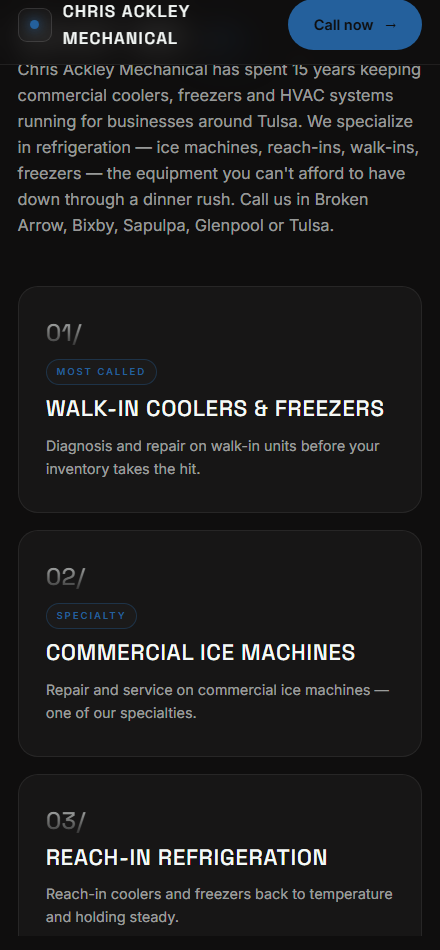
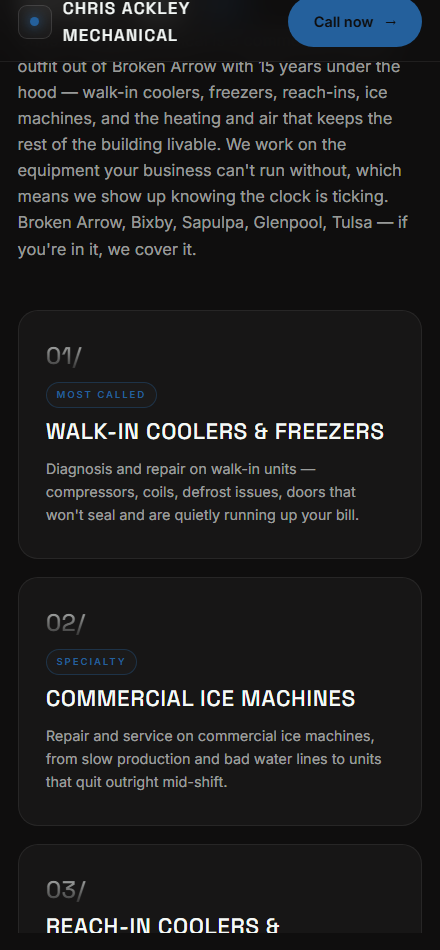
Publish demo: chris-ackley-mechanical

diff --git a/chris-ackley-mechanical/index.html b/chris-ackley-mechanical/index.html
@@ -5,7 +5,7 @@
 <meta charset="UTF-8">
 <meta name="viewport" content="width=device-width, initial-scale=1.0">
 <title>Chris Ackley Mechanical — Broken Arrow</title>
-<meta name="description" content="Chris Ackley Mechanical — Commercial refrigeration and HVAC service across Tulsa and the surrounding towns. Broken Arrow. Call (918) 370-6348.">
+<meta name="description" content="Chris Ackley Mechanical — Commercial refrigeration and HVAC service across Tulsa and Broken Arrow. Broken Arrow. Call (918) 370-6348.">
 <link rel="preconnect" href="https://fonts.googleapis.com">
 <link rel="preconnect" href="https://fonts.gstatic.com" crossorigin>
 <link href="https://fonts.googleapis.com/css2?family=Fraunces:opsz,wght@9..144,500;9..144,600&family=Playfair+Display:wght@600;700&family=Space+Grotesk:wght@500;600;700&family=Inter:wght@300;400;500;600&display=swap" rel="stylesheet">
@@ -316,7 +316,7 @@ footer.site a:hover{text-decoration:underline}
 </nav>
 
 <header class="hero" id="top">
-  <img class="hero-bg" src="photos/p3.jpg" alt="Chris Ackley Mechanical" style="object-position:50% 83%">
+  <img class="hero-bg" src="photos/p6.jpg" alt="Chris Ackley Mechanical" style="object-position:16% 83%">
   <div class="scrim" aria-hidden="true"></div>
   <div class="glow-field" aria-hidden="true">
     <div class="glow g1" data-depth="0.14"></div>
@@ -331,7 +331,7 @@ footer.site a:hover{text-decoration:underline}
   <div class="hero-inner wrap">
     <span class="pill-badge" data-reveal>Commercial Refrigeration & Hvac</span>
     <h1><span class="w" style="animation-delay:0.12s">Cold</span> <span class="w" style="animation-delay:0.24s">stays</span> <span class="w" style="animation-delay:0.36s">cold.</span></h1>
-    <p class="lede" data-reveal>Commercial refrigeration and HVAC service across Tulsa and the surrounding towns.</p>
+    <p class="lede" data-reveal>Commercial refrigeration and HVAC service across Tulsa and Broken Arrow.</p>
     <div class="rating" data-reveal><span class="stars" aria-label="Five stars">&#9733;&#9733;&#9733;&#9733;&#9733;</span> Loved by locals</div>
     <div class="trust stagger" data-stagger>TRUST_CHIPS</div>
     <div class="cta-row" data-reveal>
@@ -342,7 +342,7 @@ footer.site a:hover{text-decoration:underline}
   <div class="scroll-cue" aria-hidden="true">Scroll on down<span class="pulse"></span></div>
 </header>
 
-<div class="marquee" aria-hidden="true"><div class="track"><span>15 YEARS COMMERCIAL HVACR</span><b>&#9679;</b><span>WALK-INS & REACH-INS</span><b>&#9679;</b><span>ICE MACHINE SPECIALIST</span><b>&#9679;</b><span>BROKEN ARROW TO TULSA</span><b>&#9679;</b><span>15 YEARS COMMERCIAL HVACR</span><b>&#9679;</b><span>WALK-INS & REACH-INS</span><b>&#9679;</b><span>ICE MACHINE SPECIALIST</span><b>&#9679;</b><span>BROKEN ARROW TO TULSA</span><b>&#9679;</b></div></div>
+<div class="marquee" aria-hidden="true"><div class="track"><span>15 YEARS EXPERIENCE</span><b>&#9679;</b><span>COMMERCIAL HVACR</span><b>&#9679;</b><span>ICE MACHINE SPECIALIST</span><b>&#9679;</b><span>TULSA & BROKEN ARROW</span><b>&#9679;</b><span>15 YEARS EXPERIENCE</span><b>&#9679;</b><span>COMMERCIAL HVACR</span><b>&#9679;</b><span>ICE MACHINE SPECIALIST</span><b>&#9679;</b><span>TULSA & BROKEN ARROW</span><b>&#9679;</b></div></div>
 
 <div class="stats"><div class="row wrap stagger" data-stagger><div><div class="n">Local</div><div class="l">owned &amp; operated</div></div><div><div class="n">5&#9733;</div><div class="l">service you can count on</div></div><div><div class="n">Broken Arrow</div><div class="l">&amp; surrounding area</div></div><div><div class="n">Fast</div><div class="l">friendly &amp; on-time</div></div></div></div>
 
@@ -351,12 +351,12 @@ footer.site a:hover{text-decoration:underline}
     <div data-reveal>
       <span class="eyebrow">Commercial Refrigeration & Hvac</span>
       <h2>What we <span class="serif-it glow-word">do.</span></h2>
-      <p class="lead">Chris Ackley Mechanical is a commercial HVACR outfit out of Broken Arrow with 15 years under the hood — walk-in coolers, freezers, reach-ins, ice machines, and the heating and air that keeps the rest of the building livable. We work on the equipment your business can't run without, which means we show up knowing the clock is ticking. Broken Arrow, Bixby, Sapulpa, Glenpool, Tulsa — if you're in it, we cover it.</p>
+      <p class="lead">Chris Ackley Mechanical has spent 15 years keeping commercial coolers, freezers and ice machines running for businesses around Tulsa. Walk-ins, reach-ins, ice machines, heating and air — if it holds a temperature and your business depends on it, that's the work. Broken Arrow, Bixby, Sapulpa, Glenpool and Tulsa.</p>
     </div>
-    <div class="grid stagger" data-stagger><div class="card"><span class="num">01/</span><span class="pill">most called</span><h3>Walk-In Coolers & Freezers</h3><p>Diagnosis and repair on walk-in units — compressors, coils, defrost issues, doors that won't seal and are quietly running up your bill.</p></div>
-<div class="card"><span class="num">02/</span><span class="pill">specialty</span><h3>Commercial Ice Machines</h3><p>Repair and service on commercial ice machines, from slow production and bad water lines to units that quit outright mid-shift.</p></div>
-<div class="card"><span class="num">03/</span><h3>Reach-In Coolers & Freezers</h3><p>Reach-in units for restaurants, bars, and shops — kept holding the temp your health inspector wants to see.</p></div>
-<div class="card"><span class="num">04/</span><span class="pill">year-round</span><h3>Commercial Heating & Air</h3><p>Rooftop units and commercial HVAC service so the dining room, shop floor, or office stays comfortable year-round.</p></div></div>
+    <div class="grid stagger" data-stagger><div class="card"><span class="num">01/</span><span class="pill">most called</span><h3>Walk-In Coolers & Freezers</h3><p>Diagnostics, repair and service on walk-in boxes so your inventory never sits in the danger zone.</p></div>
+<div class="card"><span class="num">02/</span><span class="pill">specialty</span><h3>Commercial Ice Machines</h3><p>Repair, cleaning and troubleshooting on commercial ice machines — a specialty, not a sideline.</p></div>
+<div class="card"><span class="num">03/</span><h3>Reach-In Refrigeration</h3><p>Prep tables, merchandisers and reach-in units brought back to holding temp and kept there.</p></div>
+<div class="card"><span class="num">04/</span><span class="pill">year round</span><h3>Commercial HVAC</h3><p>Heating, ventilation and air conditioning service for restaurants, shops and small commercial buildings.</p></div></div>
   </div>
 </section>
 
@@ -422,20 +422,21 @@ footer.site a:hover{text-decoration:underline}
     <div data-reveal>
       <span class="eyebrow">About us</span>
       <h2>A local name you can trust</h2>
-      <p class="lead">Chris Ackley Mechanical is a commercial HVACR outfit out of Broken Arrow with 15 years under the hood — walk-in coolers, freezers, reach-ins, ice machines, and the heating and air that keeps the rest of the building livable. We work on the equipment your business can't run without, which means we show up knowing the clock is ticking. Broken Arrow, Bixby, Sapulpa, Glenpool, Tulsa — if you're in it, we cover it.</p>
-      <div class="quote">Fifteen years on commercial equipment. I've seen what yours is doing before.</div>
+      <p class="lead">Chris Ackley Mechanical has spent 15 years keeping commercial coolers, freezers and ice machines running for businesses around Tulsa. Walk-ins, reach-ins, ice machines, heating and air — if it holds a temperature and your business depends on it, that's the work. Broken Arrow, Bixby, Sapulpa, Glenpool and Tulsa.</p>
+      <div class="quote">When the walk-in goes down, you don't need a quote — you need a truck.</div>
       <div class="cta-row" style="justify-content:flex-start;margin-top:1.8rem">
         <a class="btn solid" href="tel:9183706348">Talk to us <span class="arr">&rarr;</span></a>
       </div>
     </div>
-    <div class="photo curtain" data-curtain><img src="photos/p5.jpg" loading="lazy" alt="Chris Ackley Mechanical" style="object-position:50% 50%"></div>
+    <div class="photo curtain" data-curtain><img src="photos/p3.jpg" loading="lazy" alt="Chris Ackley Mechanical" style="object-position:50% 83%"></div>
   </div>
 </section>
 
-  <section class="alt" id="work"><div class="wrap"><div class="eyebrow">Selected work</div><h2>A look at what we do</h2><div class="gallery"><figure class="shot"><img src="photos/p6.jpg" loading="lazy" alt="Chris Ackley Mechanical" style="object-position:50% 83%"><figcaption class="cap"><b>01</b>Recent work</figcaption></figure>
-<figure class="shot"><img src="photos/p5.jpg" loading="lazy" alt="Chris Ackley Mechanical" style="object-position:50% 50%"><figcaption class="cap"><b>02</b>On the job</figcaption></figure>
-<figure class="shot social"><img src="photos/p1.jpg" loading="lazy" alt="Chris Ackley Mechanical" style="object-position:50% 50%"><figcaption class="cap"><b>03</b>Our team</figcaption></figure>
-<figure class="shot social"><img src="photos/p2.jpg" loading="lazy" alt="Chris Ackley Mechanical" style="object-position:50% 50%"><figcaption class="cap"><b>04</b>Behind the scenes</figcaption></figure></div></div></section>
+  <section class="alt" id="work"><div class="wrap"><div class="eyebrow">Selected work</div><h2>A look at what we do</h2><div class="gallery"><figure class="shot"><img src="photos/p3.jpg" loading="lazy" alt="Chris Ackley Mechanical" style="object-position:50% 83%"><figcaption class="cap"><b>01</b>Recent work</figcaption></figure>
+<figure class="shot"><img src="photos/p5.jpg" loading="lazy" alt="Chris Ackley Mechanical" style="object-position:50% 83%"><figcaption class="cap"><b>02</b>On the job</figcaption></figure>
+<figure class="shot"><img src="photos/p4.jpg" loading="lazy" alt="Chris Ackley Mechanical" style="object-position:50% 50%"><figcaption class="cap"><b>03</b>Our team</figcaption></figure>
+<figure class="shot social"><img src="photos/p1.jpg" loading="lazy" alt="Chris Ackley Mechanical" style="object-position:50% 50%"><figcaption class="cap"><b>04</b>Behind the scenes</figcaption></figure>
+<figure class="shot social"><img src="photos/p2.jpg" loading="lazy" alt="Chris Ackley Mechanical" style="object-position:50% 50%"><figcaption class="cap"><b>05</b>In the community</figcaption></figure></div></div></section>
 
 <section class="alt" id="reviews">
   <div class="wrap">
@@ -455,9 +456,9 @@ footer.site a:hover{text-decoration:underline}
       <span class="eyebrow">Good to know</span>
       <h2>Common <span class="serif-it glow-word">questions.</span></h2>
     </div>
-    <div class="faq" data-reveal><details><summary>Do you work on residential systems?</summary><p>We're a commercial shop — walk-ins, reach-ins, ice machines, and commercial heating and air are what we do all day.</p></details>
-<details><summary>What areas do you cover?</summary><p>Broken Arrow, Bixby, Sapulpa, Glenpool, Tulsa, and the surrounding area.</p></details>
-<details><summary>My walk-in is going warm — how fast can you get out?</summary><p>Call (918) 370-6348 and tell us it's a cooler down; product on the line moves to the front of the list.</p></details></div>
+    <div class="faq" data-reveal><details><summary>Do you work on residential systems?</summary><p>The focus is commercial HVACR — coolers, freezers, ice machines and commercial heating and air.</p></details>
+<details><summary>What areas do you cover?</summary><p>Broken Arrow, Bixby, Sapulpa, Glenpool, Tulsa and the surrounding area.</p></details>
+<details><summary>My cooler is going warm — how fast can you get out?</summary><p>Call (918) 370-6348 and we'll get you scheduled as quick as the route allows.</p></details></div>
   </div>
 </section>
 
@@ -465,7 +466,7 @@ footer.site a:hover{text-decoration:underline}
   <div class="wrap" data-reveal>
     <span class="eyebrow">Get started</span>
     <h2>Ready when you are.</h2>
-    <p>Commercial refrigeration and HVAC service across Tulsa and the surrounding towns.</p>
+    <p>Commercial refrigeration and HVAC service across Tulsa and Broken Arrow.</p>
     <div class="cta-row">
       <a class="btn solid" href="tel:9183706348">Call (918) 370-6348 <span class="arr">&rarr;</span></a>
       <a class="btn line" href="https://www.google.com/maps/search/?api=1&query=Chris%20Ackley%20Mechanical%20Broken%20Arrow" target="_blank" rel="noopener">Get directions <span class="arr">&rarr;</span></a>
